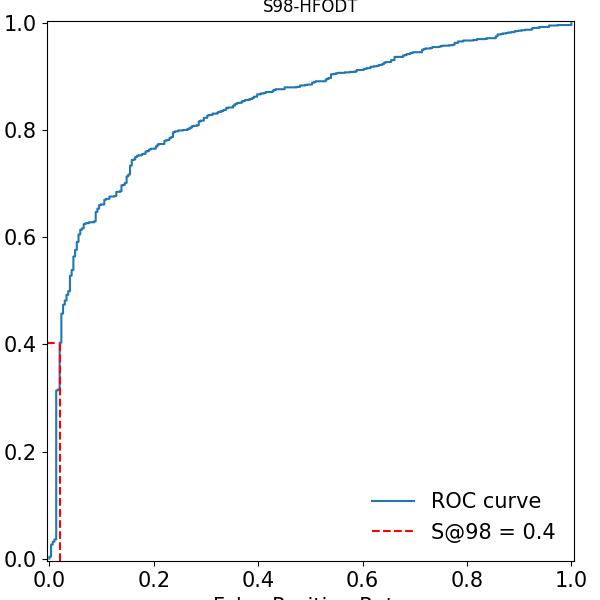
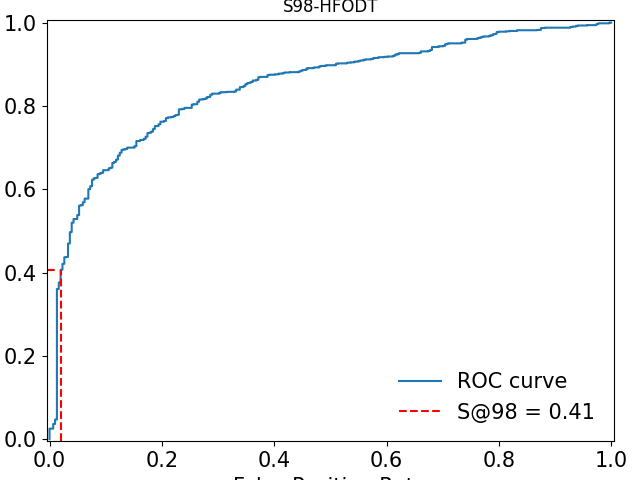
Drawing figures

Changed region(s): [[0.0, 0.0, 0.99, 1.0], [0.15, 0.2188, 0.3, 0.375], [0.3, 0.1875, 0.36, 0.2188]]

diff --git a/BDD_cancer/sporf_compare.py b/BDD_cancer/sporf_compare.py
@@ -1,34 +1,31 @@
 from pathlib import Path
+import pandas as pd
 import matplotlib.pyplot as plt
-
 import numpy as np
 from joblib import Parallel, delayed
-from sklearn.model_selection import StratifiedShuffleSplit
-from treeple import HonestForestClassifier
-from treeple.datasets import (make_trunk_classification,
-                              make_trunk_mixture_classification)
-from treeple.stats import PermutationHonestForestClassifier, build_oob_forest
-from treeple.stats.utils import _mutual_information
-from treeple.tree import MultiViewDecisionTreeClassifier
+
 from sklearn.metrics import roc_auc_score, roc_curve
 from sklearn.calibration import CalibratedClassifierCV
 from sklearn.model_selection import StratifiedKFold, train_test_split
-
 from sklearn.ensemble import RandomForestClassifier
 from sklearn.linear_model import LogisticRegression
 from sklearn.neighbors import KNeighborsClassifier
 from sklearn.svm import SVC
-import os
-# from random import shuffle
 
-import pandas as pd
-import matplotlib.pyplot as plt
-
+from treeple import HonestForestClassifier, ObliqueRandomForestClassifier
+from treeple.stats import PermutationHonestForestClassifier, build_oob_forest
+from treeple.stats.utils import _mutual_information
+from treeple.tree import MultiViewDecisionTreeClassifier
+from treeple.tree import ObliqueDecisionTreeClassifier
 import tree_metrics
+import os
+
 from print_importance import might_importance
 
 n_estimators = 5000
-max_features = 0.3
+max_features = 0.2
+
+# pd.set_option('future.no_silent_downcasting', True)
 
 MODEL_NAMES = {
     "might": {
@@ -38,34 +35,40 @@ MODEL_NAMES = {
         "bootstrap": True,
         "stratify": True,
         "max_samples": 1.6,
-        "max_features": 0.3,
+        "max_features": max_features,
         "tree_estimator": MultiViewDecisionTreeClassifier(),
     },
-    "rf": {
+        "rf": {
         "n_estimators": int(n_estimators / 5),
         "max_features": 0.3,
     },
-    "knn": {
-        # XXX: above, we use sqrt of the total number of samples to allow
-        # scaling wrt the number of samples
-        # "n_neighbors": 5,
+    "HFODT": {
+        "n_estimators": n_estimators,
+        "honest_fraction": 0.5,
+        "n_jobs": 40,
+        "bootstrap": True,
+        "stratify": True,
+        "max_samples": 1.6,
+        "max_features": max_features,
+        "tree_estimator": ObliqueDecisionTreeClassifier(),
+    },
+    "SPORF": {
+        "n_estimators": n_estimators,
+        "n_jobs": 40,
+        "bootstrap": True,
+        # "max_samples": 1.6,
+        "max_features": max_features,
+        # "tree_estimator": ObliqueDecisionTreeClassifier(),
     },
     "svm": {
         "probability": True,
     },
-    "lr": {
-        "max_iter": 1000,
-        "penalty": "l1",
-        "solver": "liblinear",
-    }
 }
+
 might_kwargs = MODEL_NAMES["might"]
+HFODT_kwargs = MODEL_NAMES["HFODT"]
+SPORF_kwargs = MODEL_NAMES["SPORF"]
 
-# filelist = open("filelist.txt", "r").read().split("\n")[:-1]
-
-
-# get the sample list
-# Savannah: Change the file dir if you need, I just put the file in the same dir
 sample_list_file = "AllSamples.MIGHT.Passed.samples.txt"
 sample_list = pd.read_csv(sample_list_file, sep=" ", header=None)
 sample_list.columns = ["library", "sample_id", "cohort"]
@@ -101,8 +104,10 @@ def get_X_y(f, root="", cohort=cohort1, verbose=False):
     target = 'Cancer Status'
     y = df[target]
     # convert the labels to 0 and 1
-    y = y.replace("Healthy", 0)
-    y = y.replace("Cancer", 1)
+    # y = y.replace("Healthy", 0).infer_objects(copy=False)
+    # y = y.replace("Cancer", 1).infer_objects(copy=False)
+    # y = y.replace({"Healthy": 0, "Cancer": 1}).infer_objects(copy=False)
+    y = y.replace({"Healthy": 0, "Cancer": 1}).astype(int)
     # remove the non-feature columns if they exist
     for col in non_features:
         if col in df.columns:
@@ -194,33 +199,32 @@ def run_alog(f1, cohort=cohort1, model_name='might'):
 
     elif model_name == "rf":
         est = RandomForestClassifier(**MODEL_NAMES[model_name], n_jobs=40)
-
-    elif "knn" in model_name:
-        est = KNeighborsClassifier(n_neighbors=int(np.sqrt(X.shape[0]) + 1), )
-
+        
     elif model_name == "svm":
         est = SVC(**MODEL_NAMES[model_name])
 
-    elif model_name == "lr":
-        est = LogisticRegression(**MODEL_NAMES[model_name])
+    elif model_name == "HFODT":
+        est = HonestForestClassifier(**HFODT_kwargs)
+        
+    elif model_name == "SPORF":
+        est = ObliqueRandomForestClassifier(**SPORF_kwargs)
 
     # X_combine = X_combine.fillna(0)
     X_combine = X.fillna(0)
 
-    if model_name == 'might':
-        est, posterior_arr = build_oob_forest(est, X, y_1, verbose=False, )
-    else:
-        est, posterior_arr = stratified_train_ml(est, np.array(X_combine), np.array(y_1))
-    if model_name == 'might':
+    # Training and prediction
+    if model_name in ['might', 'HFODT', 'SPORF']:
+        est, posterior_arr = build_oob_forest(est, X, y_1, verbose=False)
         POS = np.nanmean(posterior_arr, axis=0)
     else:
+        est, posterior_arr = stratified_train_ml(est, np.array(X_combine), np.array(y_1))
         POS = posterior_arr
 
     fpr, tpr, thresholds = roc_curve(y_1, POS[:, -1], pos_label=1, drop_intermediate=False, )
 
     # metrics
     S98 = np.max(tpr[fpr <= 0.02])
-    # tree_metrics.plot_S98(S98, fpr, tpr, model_name)
+    tree_metrics.plot_S98(S98, fpr, tpr, model_name)
     MI = tree_metrics.Calculate_MI(model_name, y_1, POS)
     pAUC = tree_metrics.Calculate_pAUC(model_name, y_1, POS, fpr, tpr)
     hd = tree_metrics.Calculate_hd(model_name, POS)
@@ -229,10 +233,13 @@ def run_alog(f1, cohort=cohort1, model_name='might'):
     # might_importance(model_name, est, X_combine)
 
     # save the model
-    output_dir = "./npz"
-    output_fname = os.path.join(output_dir, f"{model_name}.npz")
-    print(model_name, f1)
-    print(model_name, S98, MI, pAUC, hd)
+    output_folder = "./npz"  
+    # os.makedirs(output_folder, exist_ok=True)  
+
+    output_fname = os.path.join(output_folder, f"{model_name}.npz")
+
+    print(f"Model: {model_name}, File: {f1}, S98: {S98}, MI: {MI}, pAUC: {pAUC}, hd: {hd}")
+    # print(f"Model: {model_name}, File: {f1}, S98: {S98}")
     np.savez_compressed(
         output_fname,
         model_name=model_name,
@@ -243,53 +250,8 @@ def run_alog(f1, cohort=cohort1, model_name='might'):
         pAUC=pAUC,
         hd=hd
     )
-    # return S98
-    return {
-        'fpr': fpr,
-        'tpr': tpr,
-        'thresholds': thresholds,
-        'y': y_1,  
-        'POS': POS  
-    }
+    return S98
 
-def plot_all_roc_curves(models, results, save_path="./figures/roc_curves_comparison.png"):
-    plt.figure(figsize=(8, 6))
-    for model_name, result in results.items():
-        fpr, tpr, pAUC = result['fpr'], result['tpr'], result['pAUC']
-        plt.plot(fpr, tpr, label=f'{model_name} (pAUC={pAUC:.3f})')
-
-    plt.plot([0, 1], [0, 1], 'k--', lw=1)  
-    # plt.xlim([0.0, 0.02])  
-    # plt.ylim([0.0, 1.0])
-    plt.xlabel('False Positive Rate (FPR)', fontsize=22)
-    plt.ylabel('True Positive Rate (TPR)', fontsize=22)
-    plt.title('ROC Curve Comparison', fontsize=22)
-    plt.legend(loc='lower right', fontsize=20)
-    plt.grid(alpha=0.5)
-    
-    plt.savefig(save_path, dpi=300)
-    print(f"ROC curves saved to {save_path}")
-    plt.show()
-
-################# Run this if you want to plot Roc curve ############################
-# Plot ROC curves for all models, run only once. DON'T need 20 times
-results = {}
-for model_name in ['might', 'rf', 'knn', 'lr', 'svm']:
-    result = run_alog(f1='WiseCondorX.Wise-1', cohort=cohort1, model_name=model_name)
-    fpr = result['fpr']
-    tpr = result['tpr']
-    y_true = result['y']
-    y_pred_proba = result['POS']
-    pAUC = tree_metrics.Calculate_pAUC(model_name, y_true, y_pred_proba, fpr, tpr)
-    results[model_name] = {
-        'fpr': fpr,
-        'tpr': tpr,
-        'pAUC': pAUC
-    }
-
-plot_all_roc_curves(['might', 'rf', 'knn', 'lr', 'svm'], results, save_path="./figures/roc_curves_comparison.png")
-#############################################
-
-# for i in range(20):
-#     Parallel(n_jobs=20)(delayed(run_alog)(f1='WiseCondorX.Wise-1', cohort=cohort1, model_name=modelname)
-#                         for modelname in ['might', 'rf', 'knn', 'lr', 'svm'])
+for i in range(10):
+    Parallel(n_jobs=40)(delayed(run_alog)(f1='WiseCondorX.Wise-1', cohort=cohort2, model_name=modelname)
+                        for modelname in ['might', 'rf','svm','HFODT', 'SPORF'])

diff --git a/BDD_cancer/sporf_compare_vis.py b/BDD_cancer/sporf_compare_vis.py
@@ -1,0 +1,57 @@
+import matplotlib.pyplot as plt
+import numpy as np
+import os
+
+# 数据准备
+cohorts = ["Cohort 1", "Cohort 2"]
+models = ["svm", "rf", "SPORF", "might", "HFODT"]
+data_means = [
+    [0.660, 0.540, 0.697, 0.628, 0.657],  # Cohort 1
+    [0.380, 0.296, 0.398, 0.331, 0.366]   # Cohort 2
+]
+data_devs = [
+    [0.028, 0.048, 0.019, 0.038, 0.041],  # Cohort 1
+    [0.025, 0.031, 0.017, 0.022, 0.029]   # Cohort 2
+]
+
+x = np.arange(len(cohorts))  # Cohort 的 x 位置
+width = 0.15  # 每个 bar 的宽度
+colors = ['b', 'g', 'r', 'orange', 'purple']  # 每个方法的颜色
+
+# 创建图形
+fig, ax = plt.subplots(figsize=(12, 8))
+
+# 绘制每个方法的柱状图
+for i, model in enumerate(models):
+    ax.bar(
+        x + i * width - (width * len(models) / 2),  # 每个模型的位置偏移
+        [data_means[0][i], data_means[1][i]],       # 对应 Cohort 的均值
+        width,
+        yerr=[data_devs[0][i], data_devs[1][i]],    # 对应 Cohort 的标准差
+        color=colors[i],                            # 方法的颜色
+        alpha=0.8,
+        label=model,                                # 模型的图例
+        capsize=5
+    )
+
+# 设置标题、标签和坐标轴
+ax.set_xlabel("Cohorts", fontsize=22)
+ax.set_ylabel("S@98 (Mean ± Deviation)", fontsize=22)
+ax.set_title("S@98 Performance Comparison (5000 Trees)", fontsize=24)
+ax.set_xticks(x)
+ax.set_xticklabels(cohorts, fontsize=22)
+
+# 设置图例
+ax.legend(title="Methods", fontsize=22, title_fontsize=22)
+
+# 显示网格
+ax.grid(alpha=0.3)
+
+# 保存图片
+output_file = "./figures/sporf_related_s98_5000.png"
+os.makedirs("./figures", exist_ok=True)
+plt.tight_layout()
+plt.savefig(output_file, dpi=300)
+plt.close()
+
+print(f"Bar chart saved at: {output_file}")

diff --git a/BDD_cancer/tree_metrics.py b/BDD_cancer/tree_metrics.py
@@ -8,7 +8,7 @@ import os
 
 def Calculate_MI(model_name, y_true, y_pred_proba):
     # calculate the conditional entropy
-    if model_name == 'might' or model_name == 'HFODT':
+    if model_name == 'might' or model_name == 'HFODT' or model_name == 'SPORF':
         H_YX = np.mean(entropy(y_pred_proba, base=np.exp(1), axis=1))
     else:
         H_YX = np.mean(entropy(y_pred_proba[:, 1:], base=np.exp(1), axis=1))
@@ -21,7 +21,7 @@ def Calculate_MI(model_name, y_true, y_pred_proba):
 
 
 def Calculate_hd(model_name, y_pred_proba) -> float:
-    if model_name == 'might' or model_name == 'HFODT':
+    if model_name == 'might' or model_name == 'HFODT'or model_name == 'SPORF':
         return np.sqrt(
             np.sum((np.sqrt(y_pred_proba[:, 1]) - np.sqrt(y_pred_proba[:, 0])) ** 2)
         ) / np.sqrt(2)
@@ -70,7 +70,7 @@ def Calculate_pAUC(model_name, y_true, y_pred_proba, fpr, tpr, max_fpr=0.1) -> f
     ax.plot(fpr, tpr, label="ROC curve")
 
     # Calculate pAUC at the specific threshold
-    if model_name == 'might' or model_name == 'HFODT':
+    if model_name == 'might' or model_name == 'HFODT' or model_name == 'SPORF':
         pAUC = roc_auc_score(y_true, y_pred_proba[:, 1], max_fpr=max_fpr)
     else:
         pAUC = roc_auc_score(y_true, y_pred_proba[:, 2], max_fpr=max_fpr)
